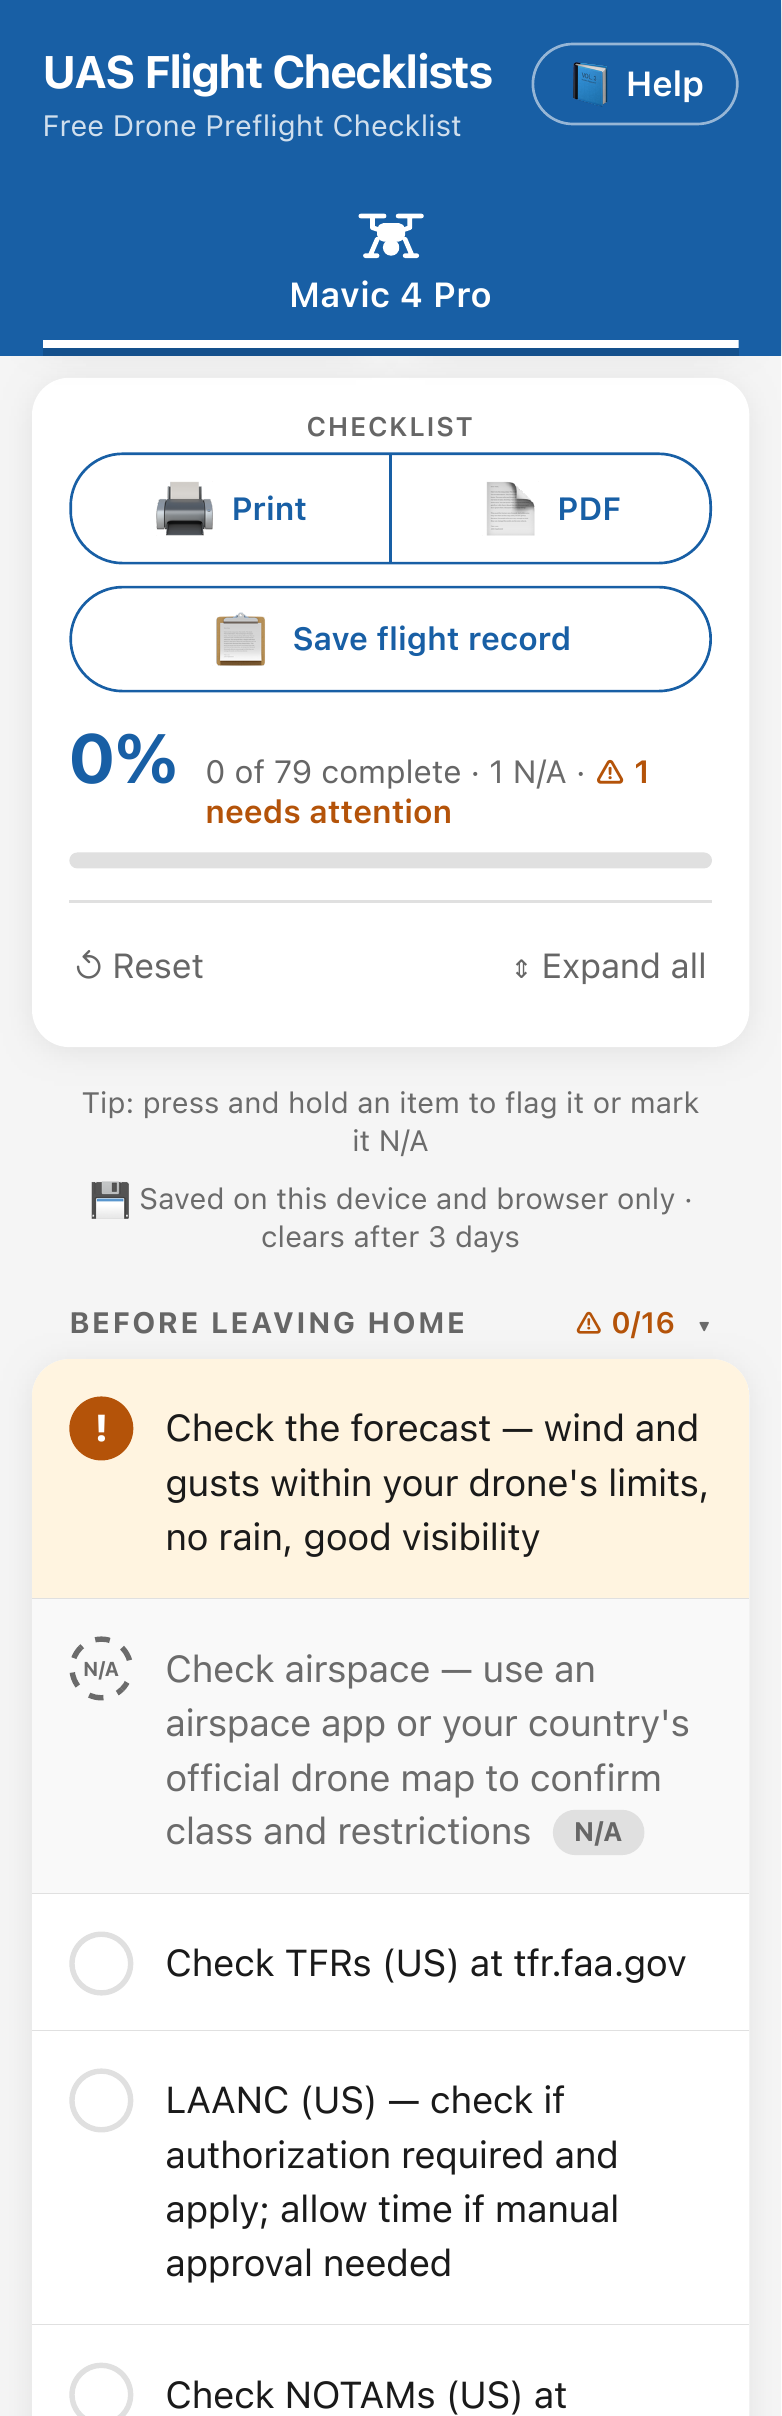
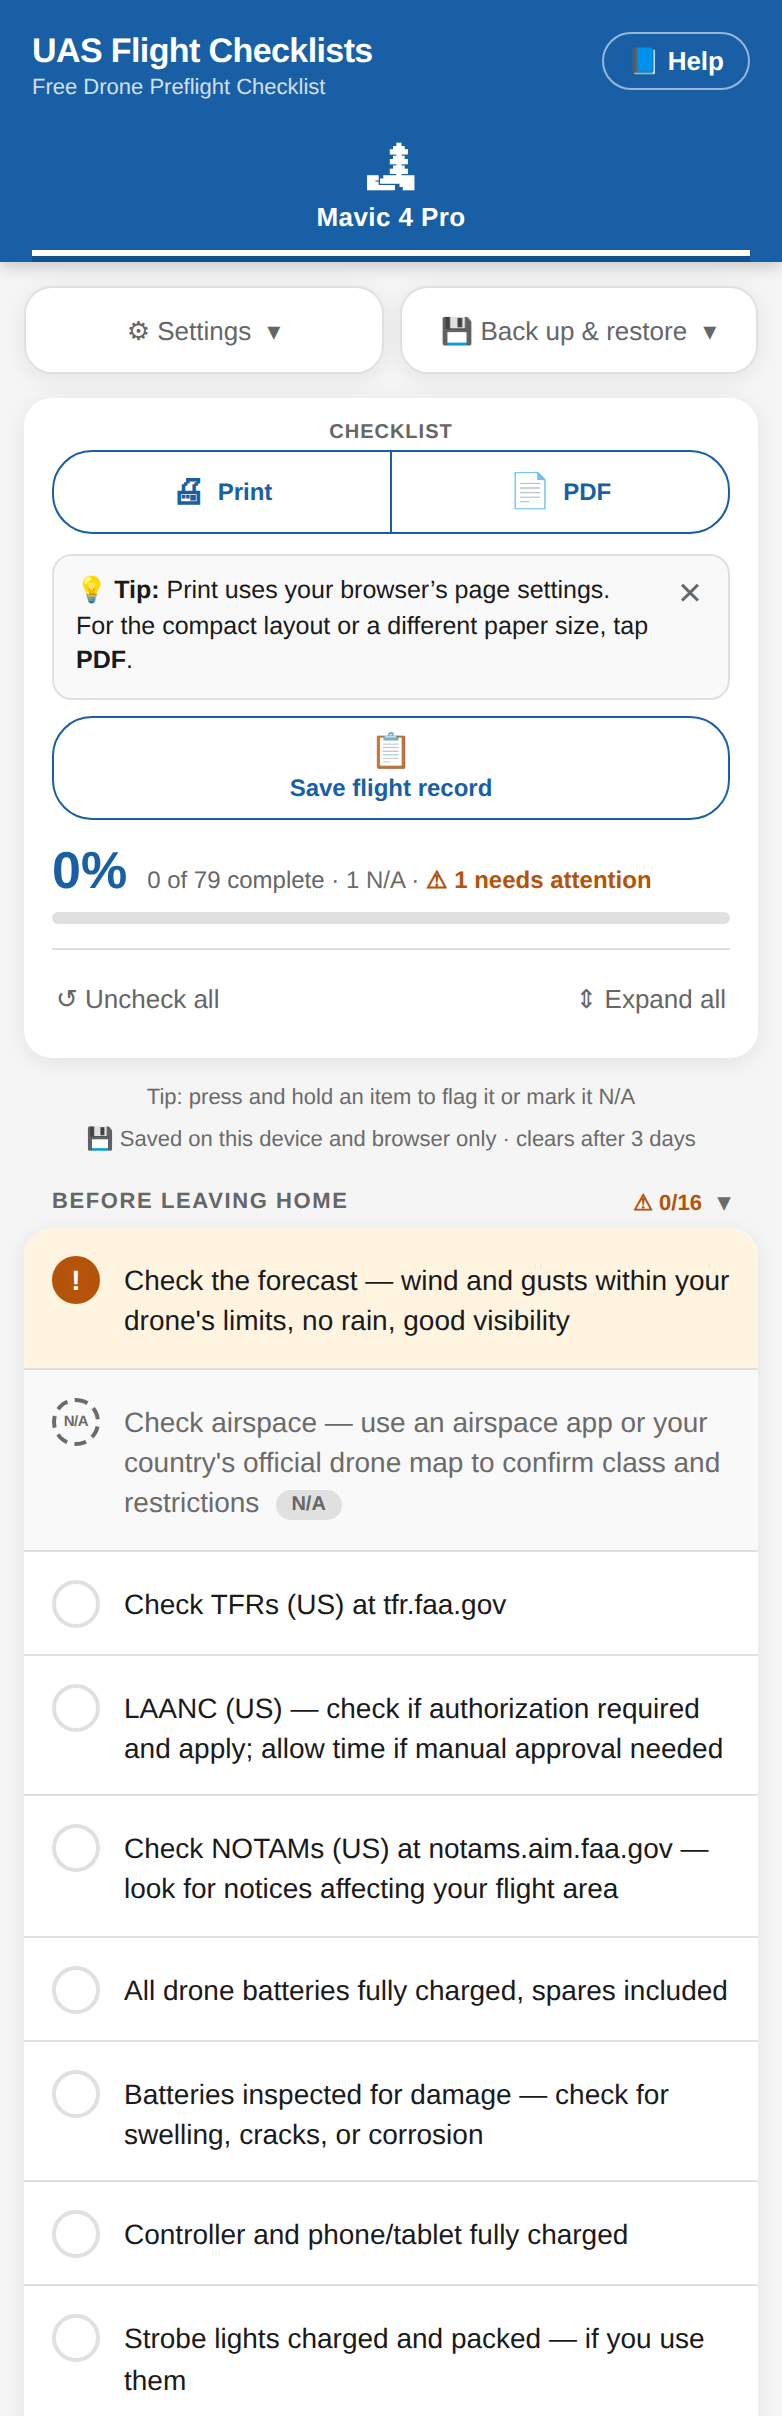
v3.8.8: Reset is now Uncheck all with a clearer confirmation; Restore original list confirmation lists what will change; How to customize card explains Restore; README, HOW-TO and screenshot 01 updated
Claude-Session: https://claude.ai/code/session_01U4FEfDJ2HQGRGcGKUiG4Lg

diff --git a/index.html b/index.html
@@ -554,7 +554,7 @@
   <div class="header-top">
     <div>
       <h1>UAS Flight Checklists</h1>
-      <p>Free Drone Preflight Checklist · v3.8.7</p>
+      <p>Free Drone Preflight Checklist · v3.8.8</p>
     </div>
     <div class="hdr-actions">
       <a class="hdr-help hdr-coffee" href="https://buymeacoffee.com/JohnstonAerial" target="_blank" rel="noopener" aria-label="Buy me a coffee (opens in a new tab)">☕ Buy me a coffee</a>
@@ -1366,7 +1366,7 @@ function resetCurrent() {
   const p = document.getElementById('panel-' + current);
   const n = p.querySelectorAll('.item.checked, .item.flagged, .item.na').length;
   if (!n) return;
-  if (!confirm('Reset this checklist? This clears ' + n + ' checked, flagged or N/A item' + (n === 1 ? '' : 's') + ' on this tab.')) return;
+  if (!confirm('Uncheck all on this tab? This clears the ticks, flags and N/A marks on ' + n + ' item' + (n === 1 ? '' : 's') + '. Items you hid or added stay as they are.')) return;
   p.querySelectorAll('.item').forEach(i => i.classList.remove('checked', 'flagged', 'na'));
   unfoldAuto(p);
   updateProgress(current);
@@ -1378,7 +1378,7 @@ function resetCurrent() {
 document.querySelectorAll('.panel .progress-card').forEach(c => {
   const r = document.createElement('button');
   r.className = 'reset-inline';
-  r.textContent = 'Reset';
+  r.textContent = 'Uncheck all';
   r.onclick = resetCurrent;
   c.appendChild(r);
 });
@@ -1678,7 +1678,14 @@ function restoreDefaults(btn) {
   const panelEl = btn.closest('.panel'), c = cust[panelEl.id], pid = panelEl.id.replace('panel-', '');
   const hasItems = c && ((c.hidden || []).length || (c.added || []).length || (c.order && Object.keys(c.order).length)), hasName = !!tabsCfg.names[pid] || (pid in tabsCfg.icons);
   if (!hasItems && !hasName) return;
-  if (!confirm('Restore this tab to the original list? Hidden items come back, the items you added are removed, the order is reset and the tab name and icon are reset.')) return;
+  const nh = c ? (c.hidden || []).length : 0, na = c ? (c.added || []).length : 0, hasOrder = !!(c && c.order && Object.keys(c.order).length);
+  const parts = [];
+  if (nh) parts.push('brings back ' + nh + ' hidden item' + (nh === 1 ? '' : 's'));
+  if (na) parts.push('removes the ' + na + ' item' + (na === 1 ? '' : 's') + ' you added');
+  if (hasOrder) parts.push('resets the order');
+  if (hasName) parts.push('resets the tab name and icon');
+  const what = parts.length > 1 ? parts.slice(0, -1).join(', ') + ' and ' + parts[parts.length - 1] : parts[0];
+  if (!confirm('Restore this tab to the original list? This ' + what + '. Other tabs and your ticks are not changed.')) return;
   panelEl.querySelectorAll('.item.custom').forEach(i => i.remove());
   panelEl.querySelectorAll('.section-card').forEach(card => [...card.querySelectorAll(':scope > .item')].sort((a, b) => a.dataset.i - b.dataset.i).forEach(it => card.appendChild(it)));
   panelEl.querySelectorAll('.item.is-hidden').forEach(i => i.classList.remove('is-hidden'));
@@ -1772,7 +1779,7 @@ function toggleSection(head) {
   syncAllButton(sec.closest('.panel'));
 }
 // ── Auto-advance: when a section is finished it folds and the next unfinished one opens ──
-// This is temporary (not saved), so a reload or Reset puts things back as you had them.
+// This is temporary (not saved), so a reload or Uncheck all puts things back as you had them.
 function secComplete(sec) {
   const total = sec.querySelectorAll('.item:not(.is-hidden):not(.region-hidden)').length;
   return total > 0 && sec.querySelectorAll('.item.checked:not(.is-hidden):not(.region-hidden), .item.na:not(.is-hidden):not(.region-hidden)').length === total;
@@ -2240,6 +2247,7 @@ document.querySelectorAll('.panel').forEach(panelEl => {
     '<div class="en-line"><b>Hide:</b> tap Hide on items you don\'t need.</div>' +
     '<div class="en-line"><b>Add:</b> type a checklist item in the box at the bottom of any section (add a link or app address if you like), then tap Add.</div>' +
     '<div class="en-line"><b>Move:</b> drag <b>≡</b> to reorder within a section.</div>' +
+    '<div class="en-line"><b>Restore:</b> <b>Restore original list</b> undoes your changes on this tab only. Hidden items come back, items you added are removed, and the order, name and icon reset.</div>' +
     '<div class="en-foot">Tap another tab to customize it too. Press <b>Done</b> when finished. Saved on this device and browser only.</div>' +
     '<button type="button" class="en-got" onclick="editTipOff()">Got it</button></div>';
   if (editTipIsOff()) en.classList.add('collapsed');
@@ -2273,7 +2281,7 @@ setKeepHours(keepHours());
 restoreProgress();
 if (restoredAt) {
   document.querySelectorAll('.flag-hint').forEach(h => {
-    h.textContent = 'Progress restored (saved ' + ageText(Date.now() - restoredAt) + ') · tap Reset to start fresh';
+    h.textContent = 'Progress restored (saved ' + ageText(Date.now() - restoredAt) + ') · tap Uncheck all to start fresh';
   });
 }
 

diff --git a/sw.js b/sw.js
@@ -2,7 +2,7 @@
 // Network first: when you're online you always get the newest version.
 // When there's no signal, the last copy that loaded is used instead.
 // Only this site's own files are handled. Weather, radar and search always go to the network.
-const CACHE = 'uas-checklist-v3.8.7';
+const CACHE = 'uas-checklist-v3.8.8';
 const SHELL = ['./', 'index.html', 'manifest.json', 'icon-192.png', 'icon-512.png', 'icon-maskable-512.png', 'apple-touch-icon.png'];
 
 self.addEventListener('install', (e) => {

diff --git a/README.md b/README.md
@@ -95,6 +95,14 @@ Items you flagged are listed as **NEEDS ATTENTION**, items you hid are left out,
 
 ---
 
+## What's new in v3.8.8
+
+- **Reset is now "Uncheck all"** — the button at the bottom of the progress card cleared only your ticks, flags and N/A marks, but the word "Reset" sounded like it wiped more. **↺ Uncheck all** says what it does, and the confirmation spells it out: "This clears the ticks, flags and N/A marks on 3 items. Items you hid or added stay as they are."
+- **Restore original list tells you what it will change** — the confirmation now lists only what applies to that tab, with counts, for example "This brings back 2 hidden items, removes the 3 items you added and resets the tab name and icon. Other tabs and your ticks are not changed." It only ever affects the tab you're editing.
+- **A Restore line in "How to customize"** — the card at the top of **Customize** now explains **Restore original list** alongside Tabs, Hide, Add and Move.
+
+---
+
 ## What's new in v3.8.7
 
 - **Customize is easier to find and follow** — in **⚙ Settings**, the row now reads **📝 Your checklist & tab** with a **Customize** button, so it's clear that Customize covers the tab itself (its name, icon and Hide) as well as the items on it. While you customize, the bar at the bottom says **Editing this checklist and tab**, and the page scrolls to the controls for you.
@@ -523,7 +531,7 @@ Or simply download `index.html` and open it locally in any browser. The weather 
 5. Press and hold an item for a menu: **Needs attention** (amber) or **N/A for this flight** (greyed, not counted). Tap a flagged item once it's resolved to check it off, or press and hold it again to clear the flag. Tap an N/A item to put it back
 6. When you check off the last item in a section, it folds itself and the next unfinished section opens. Tap any header to open a section again. A section with a flagged item stays open until the flag is resolved
 7. The progress bar tracks your completion percentage and shows how many items need attention and how many are N/A. When your pre-flight sections are done, a **ready to fly** banner appears; after the last section, **flight complete**
-8. Tap **Reset** (bottom of the progress card) to clear all checks, flags and N/A marks on the current tab — it asks you to confirm first
+8. Tap **Uncheck all** (bottom of the progress card) to clear all checks, flags and N/A marks on the current tab — it asks you to confirm first
 9. Tap **Save flight record** to keep a PDF or text copy of the flight, **PDF** to save the checklist as a printable file, or **Print** to print the tab (in Safari or a computer browser)
 
 **To make it yours:** open **⚙ Settings**, tap **Customize**, and hide items you don't need, add your own, drag items into your order, and rename, change the icon of, or hide whole tabs — then press **Done** in the bar at the bottom. Before you leave Settings, consider saving a backup. More in the [How-to guides](HOW-TO.md).
@@ -567,7 +575,7 @@ Yes. It's free to fork, and you can host your own copy and change the default it
 
 ## Limitations
 
-- **No automatic sync** — saved progress and settings live only in the browser on the device you're using (and progress is cleared when it expires or when you tap Reset). Use **Back up & restore** to move them to another device. Plan to use a single device per flight.
+- **No automatic sync** — saved progress and settings live only in the browser on the device you're using (and progress is cleared when it expires or when you tap Uncheck all). Use **Back up & restore** to move them to another device. Plan to use a single device per flight.
 - **No account or login** — by design. Keeps it simple, private, and free.
 - **Backup codes need a recent browser** — codes are compressed using a feature of current browsers (Chrome, Edge, Firefox and Safari from roughly 2023 on, including iOS/iPadOS 16.4 and newer). On older browsers a backup still works but the code is longer.
 - **Weather defaults to your current GPS location** — to check a different flight site, tap **Change** on the weather panel and search for a town, postal code (ZIP code in the USA), or coordinates. Place search works best for towns and cities; for a specific job site, use a nearby town or enter coordinates. Cloud ceiling comes from the nearest METAR station, which can be several miles from the site (the station is shown on the panel). The **Radar — NWS** button opens the national map.

diff --git a/HOW-TO.md b/HOW-TO.md
@@ -49,7 +49,7 @@ Back up on the first device, send the file or code to the second (AirDrop, email
 - **Restoring replaces everything on that device:** tabs, hidden and added items, units and saved places. If you want to keep what you have, save a backup of it first.
 - **Each place keeps its own copy.** Safari and the Home Screen icon on the same iPhone store their settings separately. You can back up from one and restore into the other. That's an easy way to move to the Home Screen app.
 - **You can restore on the same device too.** It's a quick way to undo a round of changes you regret, if you saved a backup first.
-- **Reset and Restore original list are different.** **Reset** on the main screen clears only your ticks, flags and N/A marks on that tab. **Restore original list**, in the customize panel, undoes your customizing on that tab: hidden items come back, items you added are removed and the tab name and icon are reset.
+- **Uncheck all and Restore original list are different.** **Uncheck all** on the main screen clears only your ticks, flags and N/A marks on that tab. **Restore original list**, in the customize panel, undoes your customizing on that tab: hidden items come back, items you added are removed and the tab name and icon are reset.
 - **Your files are yours.** They're plain text files that stay on your device or wherever you put them. Nothing is sent to the website.
 
 ---
